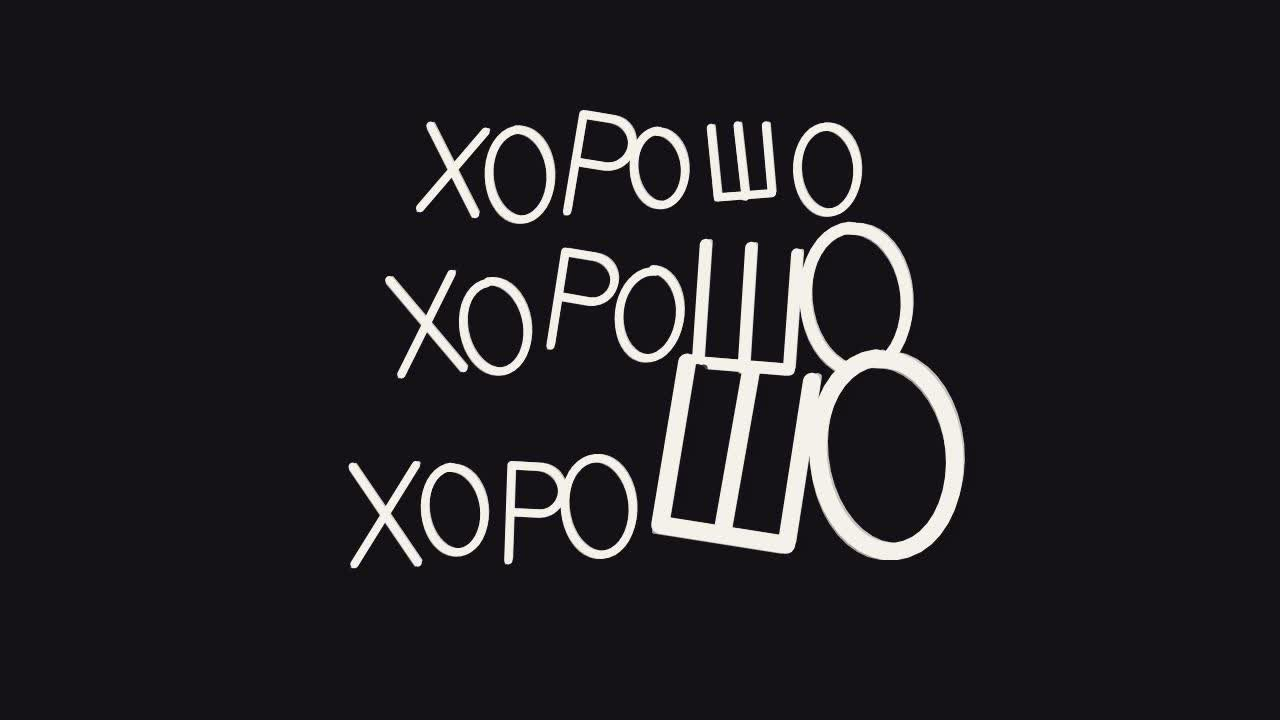
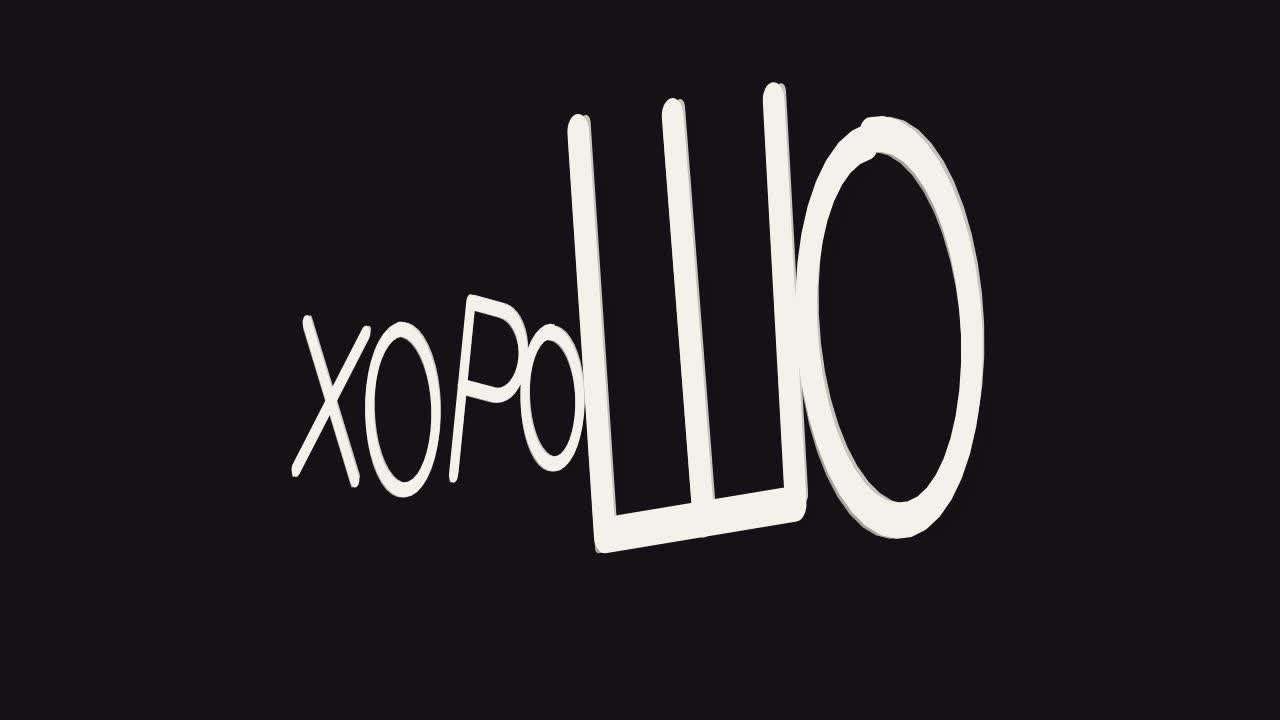
feat: «хорошо-шо-шо» as one word whose «шо» grows on each «шо»
`horosho`, which replaces `echoLines`, letters «ХОРОШО» in the break's
condensed, shaking hand. «ХОРО» holds its place while the «ШО» grows to
1.6× and then 2.4× on the sung «шо»s, each change landing with the
break's punch. It is letters only, for the lead to lay over the verse's
tail from 42.56 to 43.572.

Claude-Session: https://claude.ai/code/session_01DaohkEKgCkjsqiyZ6GhAjg

Changed region(s): [[0.2188, 0.0917, 0.7812, 0.7944], [0.25, 0.7639, 0.2812, 0.7944]]

diff --git a/src/clip/widgets/meadow-party/ui/lyric-break.ts b/src/clip/widgets/meadow-party/ui/lyric-break.ts
@@ -12,17 +12,19 @@ const BREAK_WORDS = [
   ['БЫ', 44.4],
 ] as const;
 
-// «Так хорошо-шо-шо»: each line «хоро» and a «шо» set larger than the last,
-// the first as one word.
+// «Так хорошо-шо-шо»: the onset of each «шо» and how tall the word's «шо»
+// is set from it, in cap heights of its «хоро».
 const ECHOES = [
   [42.56, 1],
-  [43.04, 1.45],
-  [43.32, 2.1],
+  [43.04, 1.6],
+  [43.32, 2.4],
 ] as const;
 
 const LETTER_HEIGHT = 150;
+const ECHO_HEIGHT = LETTER_HEIGHT;
+// Where «хоро» ends and «шо» begins, so the grown word sits centred.
+const ECHO_SEAM = [590, 470] as const;
 const LEADING = 1.3;
-const ECHO_HEIGHT = 84;
 // How long a word's landing takes, from oversized to set, in seconds.
 const LANDS = 0.07;
 
@@ -157,7 +159,7 @@ export const lyricBreak: Drawing = (pen) => {
 };
 
 /** `text` in the break's hand, its baseline at `y`, shadowed in ink to read over a picture. */
-function echoWord(
+function shadowed(
   pen: Pen,
   text: string,
   [x, y]: readonly [number, number],
@@ -182,34 +184,29 @@ function echoWord(
 }
 
 /**
- * «хорошо-шо-шо» in the break's lettering, letters only over whatever is
- * under them: a line each as sung, each «шо» larger than the last.
+ * «хорошо-шо-шо» as one word in the break's lettering, letters only over
+ * whatever is under them: «хоро» holds its place while its «шо» grows on
+ * each sung «шо», landing as the break's words do.
  */
-export const echoLines: Drawing = (pen) => {
-  const { playhead } = pen;
+export const horosho: Drawing = (pen) => {
+  const { ctx, playhead } = pen;
   const sung = ECHOES.filter(([onset]) => playhead >= onset);
+  const [, grow] = sung.at(-1) ?? [0, 0];
+  if (grow === 0) return;
   const slam = slamAt(
     playhead,
     sung.map(([onset]) => onset),
   );
-  let baseline = 95;
-  for (const [n, [, grow]] of sung.entries()) {
-    const big = ECHO_HEIGHT * grow;
-    baseline += big + ECHO_HEIGHT * 0.35;
-    const fresh = n === sung.length - 1;
-    // «хоро» ends and «шо» starts at a pivot that keeps the pair centred,
-    // a capital taken as about 0.8 of its height wide.
-    const pivot =
-      n === 0
-        ? STAGE.width / 2
-        : STAGE.width / 2 + (4 * ECHO_HEIGHT - 2 * big) * 0.4;
-    landing(pen, [pivot, baseline], (fresh ? 0.3 : 0.03) * slam, () => {
-      if (n === 0) {
-        echoWord(pen, 'ХОРОШО', [0, 0], ECHO_HEIGHT, 'center', 80);
-        return;
-      }
-      echoWord(pen, 'ХОРО', [0, 0], ECHO_HEIGHT, 'right', 80 + n);
-      echoWord(pen, 'ШО', [ECHO_HEIGHT * 0.13, 0], big, 'left', 90 + n);
-    });
-  }
+  landing(pen, ECHO_SEAM, 0.3 * slam, () => {
+    ctx.scale(CONDENSED, 1);
+    shadowed(pen, 'ХОРО', [0, 0], ECHO_HEIGHT, 'right', 80);
+    shadowed(
+      pen,
+      'ШО',
+      [ECHO_HEIGHT * 0.16, 0],
+      ECHO_HEIGHT * grow,
+      'left',
+      81,
+    );
+  });
 };

diff --git a/src/clip/widgets/meadow-party/index.ts b/src/clip/widgets/meadow-party/index.ts
@@ -1,2 +1,2 @@
-export { echoLines, lyricBreak } from './ui/lyric-break';
+export { horosho, lyricBreak } from './ui/lyric-break';
 export { FRAMINGS, meadowBurst, meadowParty } from './ui/meadow-party';

diff --git a/docs/remove-before-merging/horowo-clip-lrxscd/w3-C-notes.md b/docs/remove-before-merging/horowo-clip-lrxscd/w3-C-notes.md
@@ -11,13 +11,13 @@ Branch `claude/horowo-clip-w3-c-lrxscd`. The brief is `wave-3.md` § C.
   - The ward's four W runs gouge «ХОРОШО» a quarter further each, and the last one finishes it.
 - **`@/clip/widgets/meadow-party`** holds the meadow (`meadowParty`, `meadowBurst`, `FRAMINGS`) and the lettering in `ui/lyric-break.ts`:
   - **`lyricBreak`** (a full shot): black, with «НЕ» / «НЕ СДОХНУТЬ» / «НЕ СДОХНУТЬ БЫ» stacked, each word landing on its onset in words.ts. «от» is never shown. The words are written in an unsteady hand that goes over each letter again out of register (`scrawl`), because the operator asked for «комично-ужасный», not just comic. The three lines make a plus, so on «бы» the hospital's solid red cross (the one on its roof in the ending) lights behind them, catching like a tube sign (on, off, on, dip, on over 0.15 s), and the words turn to ink on it, holding to the meadow cut. Every word is set at 0.6 width (`CONDENSED`), so the cross is square, its arms as thick for their length as the hospital's (operator: «"сдохнуть" можно более узким шрифтом, чтобы крест получился квадратным»). The operator first suggested «похожа форма на аптечный крест, давай обыграем», then pointed at the hospital's cross.
-  - **`echoLines`** (letters only, no ground): «хорошо-шо-шо» stacked in the same hand. The lines are «ХОРОШО», then «ХОРО»+«ШО» with ШО larger, then «ХОРО»+«ШО» larger still. The lettering has no lower case, so the case contrast is drawn as size. The lines appear at words.ts's 42.56 / 43.04 / 43.32, each shadowed in ink to read over a picture.
+  - **`horosho`** (letters only, no ground): «хорошо-шо-шо» as ONE word in the break's hand, condensed like the break words. «ХОРОШО» appears at 42.56, its «ШО» grows to 1.6× at 43.04 and 2.4× at 43.32 (words.ts), «ХОРО» holding its place. Each change lands with the break's punch, and the letters carry an ink shadow so they read over a picture. The operator: «чтобы одно слово хорошо видоизменялось на каждом "шо"».
 - **`@/clip/widgets/channels`**: `aerobics(nearness)` is the morning-exercise show (`ui/aerobics.ts`). Its backing line freezes and stares from nearness 0.55–0.68. The chorus plays it at nearness 0.5→0.75.
 - Palette entries: `PARTY_PALETTE.lyric` and `.cross`; `CHANNELS_PALETTE.aerobics.band` and `.count`.
 
-## How the lead wires `echoLines`
+## How the lead wires `horosho`
 
-`echoLines` is a pure `Drawing` that reads only `pen.playhead`. Lay it over the verse's last picture from **42.56 to the end of the verse (43.572)**: inside that span it draws whatever has been sung so far. Silence the sung-line overlay there. Import it from `@/clip/widgets/meadow-party`.
+`horosho` is a pure `Drawing` that reads only `pen.playhead`. Lay it over the verse's last picture from **42.56 to the end of the verse (43.572)**: inside that span it draws whatever has been sung so far. Silence the sung-line overlay there. Import it from `@/clip/widgets/meadow-party`.
 
 ## Next
 
